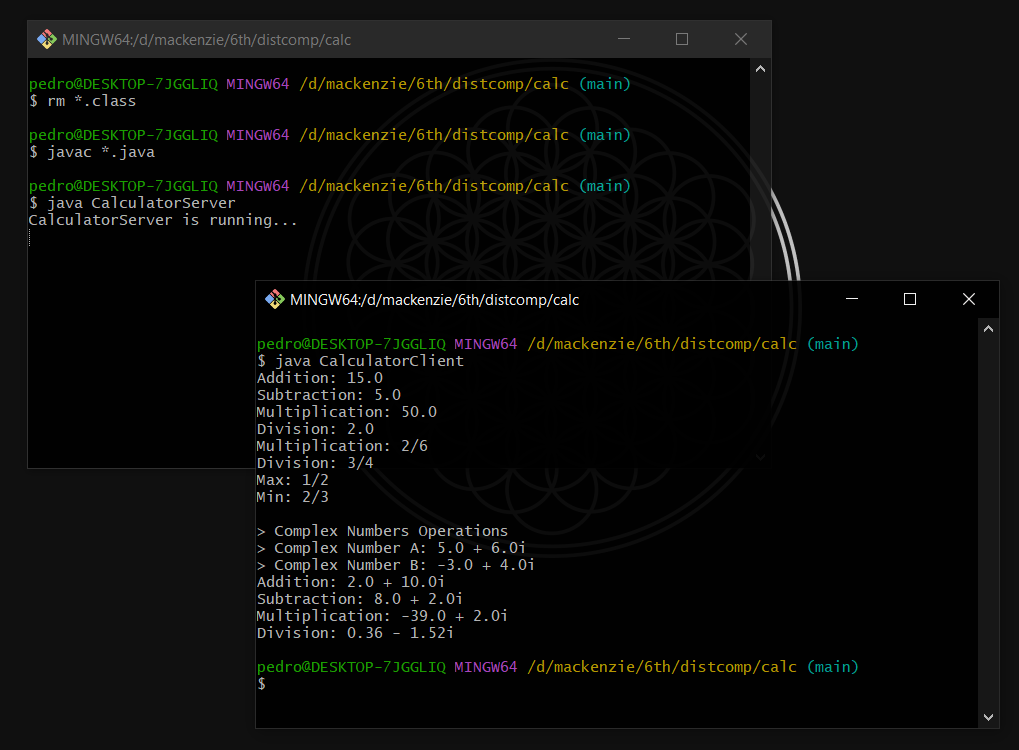
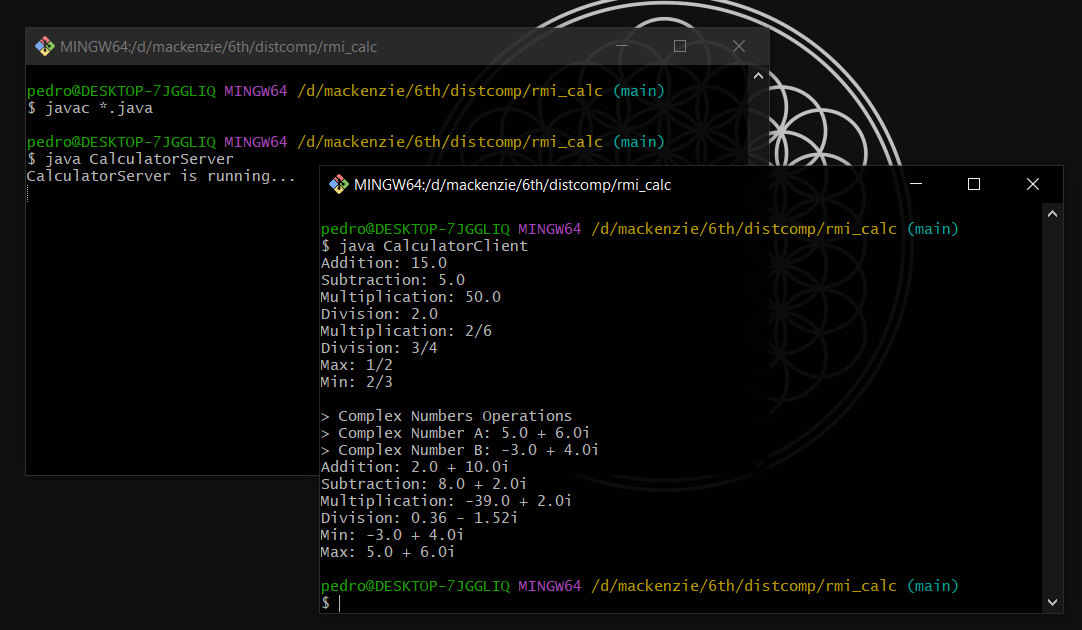
Finalizando RMI

Changed region(s): [[0.0, 0.0, 0.8822, 0.9651], [0.9431, 0.3921, 0.9735, 0.4222], [0.9431, 0.2714, 0.9735, 0.3016]]

diff --git a/rmi_calc/ComplexNum.java b/rmi_calc/ComplexNum.java
@@ -1,3 +1,5 @@
+import java.lang.Math;
+
 public class ComplexNum implements java.io.Serializable {
     private static final long serialVersionUID = 1L;
     private double real, imag;
@@ -30,6 +32,18 @@ public class ComplexNum implements java.io.Serializable {
         double ansReal = this.real * other.real - this.imag * other.imag;
         double ansImag = this.real * other.imag + this.imag * other.real;
         return new ComplexNum(ansReal, ansImag);
+    }
+
+    public double absComplexNum() {
+        return Math.sqrt(this.real * this.real + this.imag * this.imag);
+    }
+
+    public ComplexNum maxComplexNum(ComplexNum other) {
+        return this.absComplexNum() >= other.absComplexNum() ? this : other; 
+    }
+
+    public ComplexNum minComplexNum(ComplexNum other) {
+        return this.absComplexNum() < other.absComplexNum() ? this : other; 
     }
 
     public ComplexNum reciprocal() {

diff --git a/rmi_calc/CalculatorClient.java b/rmi_calc/CalculatorClient.java
@@ -39,6 +39,8 @@ public class CalculatorClient {
             System.out.println("Subtraction: " + stub.subComplexNum(c1, c2).toString());
             System.out.println("Multiplication: " + stub.multComplexNum(c1, c2).toString());
             System.out.println("Division: " + stub.divComplexNum(c1, c2).toString());
+            System.out.println("Min: " + stub.minComplexNum(c1, c2).toString());
+            System.out.println("Max: " + stub.maxComplexNum(c1, c2).toString());
 
         } catch (Exception e) {
             System.err.println("Client exception: " + e.toString());

diff --git a/rmi_calc/CalculatorServer.java b/rmi_calc/CalculatorServer.java
@@ -59,6 +59,14 @@ public class CalculatorServer implements Calculator {
         return a.divComplexNum(b);
     }
 
+    public ComplexNum minComplexNum(ComplexNum a, ComplexNum b) throws RemoteException {
+        return a.minComplexNum(b);
+    }
+    
+    public ComplexNum maxComplexNum(ComplexNum a, ComplexNum b) throws RemoteException {
+        return a.maxComplexNum(b);
+    }
+
     public static void main(String[] args) {
         try {
             // Create and export the CalculatorServer object

diff --git a/rmi_calc/Calculator.java b/rmi_calc/Calculator.java
@@ -24,4 +24,6 @@ public interface Calculator extends Remote {
     public ComplexNum subComplexNum(ComplexNum a, ComplexNum b) throws RemoteException;
     public ComplexNum multComplexNum(ComplexNum a, ComplexNum b) throws RemoteException;
     public ComplexNum divComplexNum(ComplexNum a, ComplexNum b) throws RemoteException;
+    public ComplexNum maxComplexNum(ComplexNum a, ComplexNum b) throws RemoteException;
+    public ComplexNum minComplexNum(ComplexNum a, ComplexNum b) throws RemoteException;
 }

diff --git a/rmi_calc/README.md b/rmi_calc/README.md
@@ -1,0 +1,17 @@
+# Implementação: Calculadora RMI com Java
+
+## Como executar este projeto?
+No `rmi_calc`, execute o seguinte comando:
+
+`javac *.java`
+
+Assim, você compilará as classes da aplicação, gerando arquivos `.class`.
+
+Abra um terminal e inicie o servidor a partir do comando `java CalculatorServer`
+
+Em seguida, em outro terminal, execute `java CalculatorClient` para executar o cliente da calculadora.
+
+## Verificando resultados
+Caso a execução seja bem sucedida, a saída da aplicação será semelhante à imagem abaixo:
+
+![execucao](./execucao.png)
